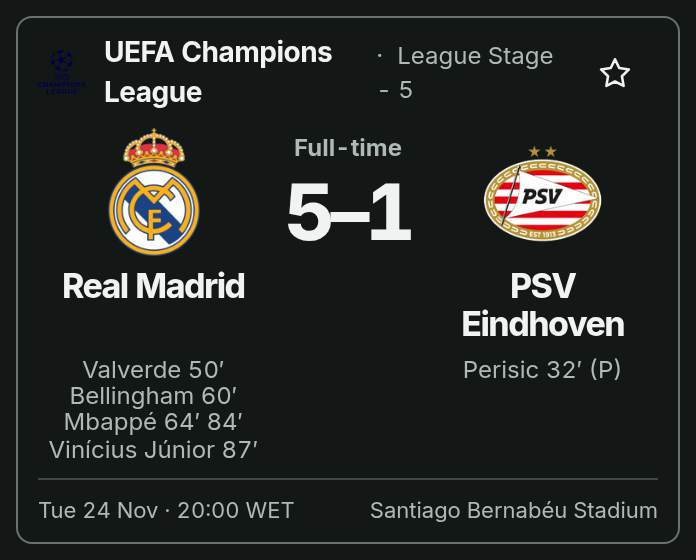
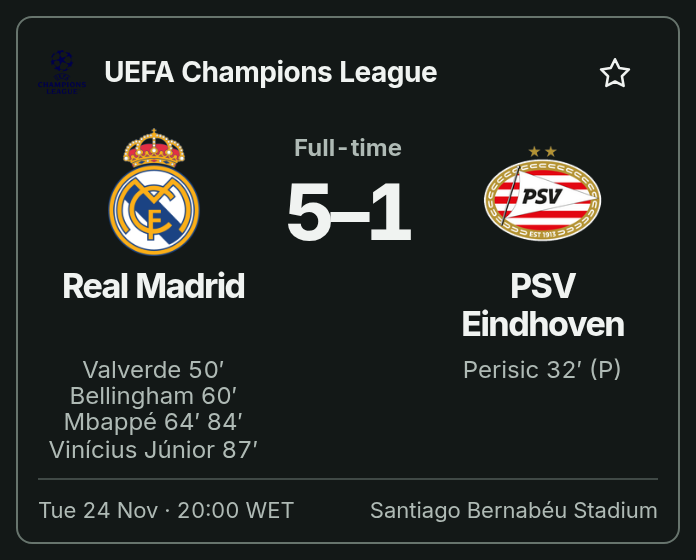
Match page: hide the mobile hero round so the competition fits one line
On viewports ≤767px, hide .mc-round (and its · separator) so names like
“UEFA Champions League” sit on one line next to the logo and star. The
label stays in the HTML; desktop is unchanged.

Changed region(s): [[0.1509, 0.0607, 0.8147, 0.2125]]

diff --git a/src/components/match/centre/match-centre.css b/src/components/match/centre/match-centre.css
@@ -1131,11 +1131,9 @@
     width: 24px;
     height: 24px;
   }
+  /* Hide the round (and its · separator) so the competition name can sit on one line. */
   .mc .mc-round {
-    font-size: 12px;
-  }
-  .mc .mc-round:before {
-    padding-inline-end: 7px;
+    display: none;
   }
   .mc {
     --hero-stack-gap: 6px;

diff --git a/docs/reviews/mobile-hero-pitch-2026-11/README.md b/docs/reviews/mobile-hero-pitch-2026-11/README.md
@@ -79,3 +79,15 @@ scorer type stays 14px.
 The kicker wrap (“UEFA Champions League” / “League Stage - 5”) is already
 present on the before-390 shot and is not a #64 regression, so it was left
 alone.
+
+## Follow-up: hide the mobile round label (2026-11-25 01:36 GMT / Europe/London)
+
+Abdilahi: “remove that so champions league can take one line.” On viewports
+≤767px, `.mc-round` (and its `·` separator) is `display: none`, so “UEFA
+Champions League” sits on one line next to the logo and star at 390 and 360.
+The span stays in the HTML. Desktop is unchanged (1440 hero/line-ups are
+pixel-identical to the previous after shots).
+
+The round label does not feed JSON-LD (`buildSportsEventMatch` has no round
+field). On the match page, the hero kicker is the only visible place for it;
+it still shows at 768px and up.
